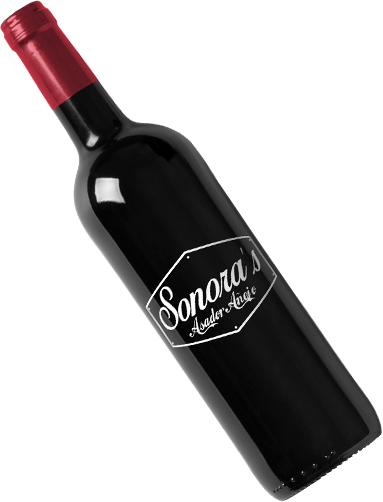
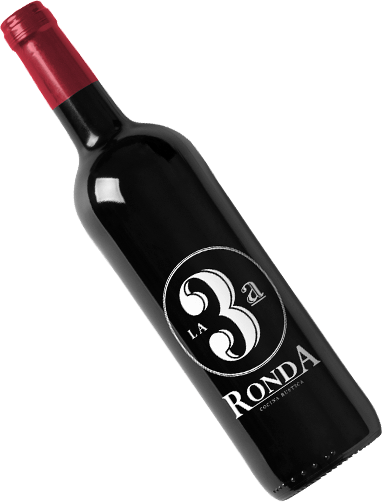
Cambio de imagenes "3raRonda"

Changed region(s): [[0.3734, 0.4482, 0.8329, 0.8367]]

diff --git a/web/index.php b/web/index.php
@@ -1,8 +1,8 @@
 <?php
 
 // comment out the following two lines when deployed to production
-// defined('YII_DEBUG') or define('YII_DEBUG', true);
-// defined('YII_ENV') or define('YII_ENV', 'dev');
+defined('YII_DEBUG') or define('YII_DEBUG', true);
+defined('YII_ENV') or define('YII_ENV', 'dev');
 
 
 require(__DIR__ . '/../vendor/autoload.php');
